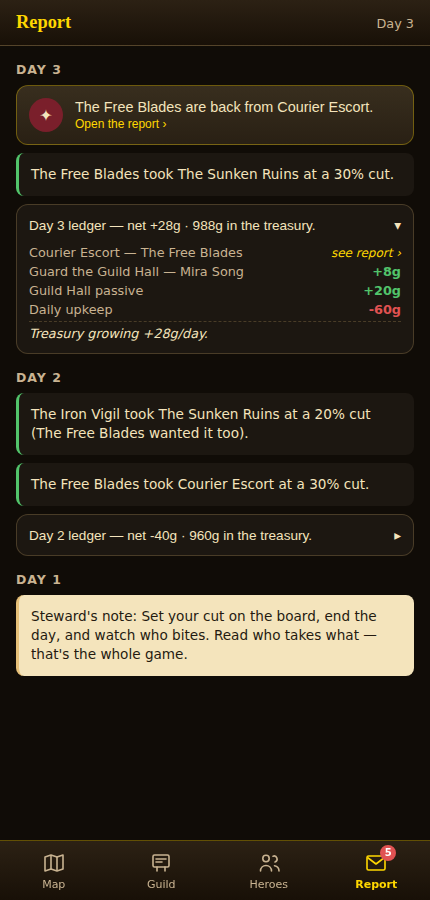
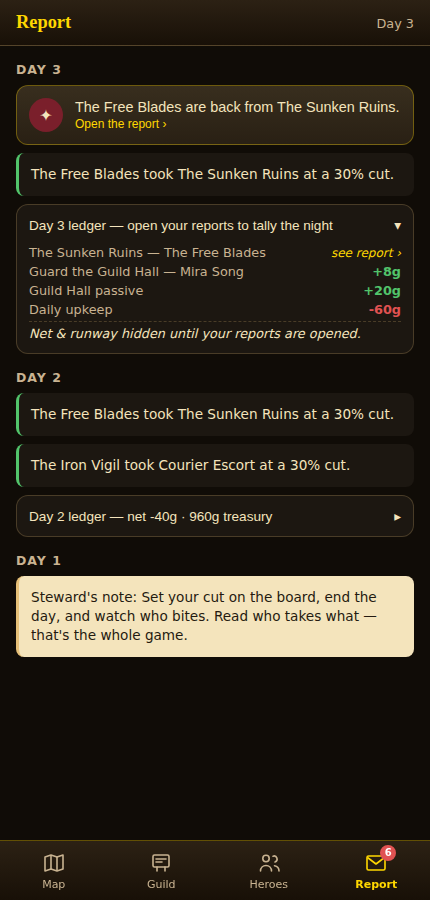
fix(guild): Codex P2s — reject appetite pad + sealed ledger tally
- board.ts appetiteFor: the reject side now needs the same 2*NOISE pad as
  'eager' — an observed reject at C only proves K < C + NOISE, so a future
  +NOISE day can still accept inside the band; 'won't bite' now fires only at
  cutPct >= minRejectedCut + 2*NOISE (else 'might pass'). The chip can't lie
  either direction now.
- Ledger no longer leaks a sealed payout via its totals: the net/treasury and
  the runway line are withheld on a sealed-return night until that night's
  outcome envelopes are opened (Report ledger head + body, and the Board
  treasury runway note). The raw gold balance stays visible per DESIGN §12.
  net/endGold carried as data on the ledger mail so the reveal is dynamic.

Verified headless @430px: pre-open the Day-3 ledger reads 'open your reports to
tally the night' with runway masked; after opening the story it reveals
'net +72g · 1032g treasury'. tsc + 68 vitest green; combat core untouched.

Claude-Session: https://claude.ai/code/session_01PRanA6Y1rRcgyVXVicoFHt

diff --git a/web/src/ui/report/ReportScreen.tsx b/web/src/ui/report/ReportScreen.tsx
@@ -87,10 +87,18 @@ function MailRow({ mail, readIds, onOpen, onRead }: { mail: Mail; readIds: Set<s
   }
 
   if (mail.kind === "ledger") {
+    // While any of this night's returning-quest cuts are still sealed, withhold the
+    // net/treasury/runway tally too — otherwise it can be back-solved to reveal the
+    // hidden payout before its story is opened (Codex R#34).
+    const pending = (mail.ledger ?? []).some((e) => e.sealedMailId !== undefined && !readIds.has(e.sealedMailId));
+    const net = mail.net ?? 0;
+    const head = pending
+      ? `${mail.teaser} — open your reports to tally the night`
+      : `${mail.teaser} — net ${net >= 0 ? "+" : ""}${net}g · ${mail.endGold ?? 0}g treasury`;
     return (
       <div className={styles.ledger}>
         <button type="button" className={styles.ledgerHead} onClick={() => { setOpen((v) => !v); if (!mail.read) onRead(); }} aria-expanded={open}>
-          <span>{mail.teaser}</span>
+          <span>{head}</span>
           <span aria-hidden>{open ? "▾" : "▸"}</span>
         </button>
         {open && mail.ledger && (
@@ -110,7 +118,9 @@ function MailRow({ mail, readIds, onOpen, onRead }: { mail: Mail; readIds: Set<s
                 </li>
               );
             })}
-            {mail.runwayNote && <li className={styles.runwayLine}><span>{mail.runwayNote}</span></li>}
+            <li className={styles.runwayLine}>
+              <span>{pending ? "Net & runway hidden until your reports are opened." : mail.runwayNote}</span>
+            </li>
           </ul>
         )}
       </div>

diff --git a/web/src/ui/board/BoardScreen.tsx b/web/src/ui/board/BoardScreen.tsx
@@ -110,12 +110,18 @@ export function BoardScreen() {
 }
 
 function Treasury({ state }: { state: GuildState }) {
-  // Runway mirrors the last ledger's note when present; otherwise a neutral read.
+  // The gold balance is always shown (§12). The runway note is derived from the
+  // night's net, which includes any still-sealed payout — so hold it neutral until
+  // the outcome reports are opened, else it leaks the hidden result (Codex R#34).
   const lastLedger = state.mail.find((m) => m.kind === "ledger");
+  const pendingReports = state.mail.some((m) => m.kind === "outcome" && !m.read);
+  const runway = pendingReports
+    ? "Open your reports for the day's tally."
+    : (lastLedger?.runwayNote ?? "A fresh ledger opens.");
   return (
     <div className={styles.treasury} aria-label={`Treasury ${state.gold} gold`}>
       <span className={styles.gold}>{state.gold}g</span>
-      <span className={styles.runway}>{lastLedger?.runwayNote ?? "A fresh ledger opens."}</span>
+      <span className={styles.runway}>{runway}</span>
     </div>
   );
 }

diff --git a/web/src/game/guild/board.ts b/web/src/game/guild/board.ts
@@ -41,7 +41,11 @@ export function appetiteFor(knowledge: AskKnowledge | undefined, cutPct: number)
   if (!knowledge || (knowledge.maxAcceptedCut === null && knowledge.minRejectedCut === null)) {
     return "unknown";
   }
-  if (knowledge.minRejectedCut !== null && cutPct >= knowledge.minRejectedCut) return "won't bite";
+  // Symmetric to "eager": an observed reject at C only proves K < C + NOISE (it may
+  // have landed on a −NOISE day), so a future +NOISE day can still accept inside a
+  // 2·NOISE band above the reject. Only call "won't bite" beyond that band, else the
+  // chip would lie the other way (Codex R#34).
+  if (knowledge.minRejectedCut !== null && cutPct >= knowledge.minRejectedCut + 2 * NOISE) return "won't bite";
   if (knowledge.maxAcceptedCut !== null && cutPct <= knowledge.maxAcceptedCut - 2 * NOISE) return "eager";
   return "might pass";
 }

diff --git a/web/src/game/guild/guild.test.ts b/web/src/game/guild/guild.test.ts
@@ -152,9 +152,10 @@ describe("appetite projection (never lies past the noise band)", () => {
     expect(appetiteFor(k, 26)).toBe("eager"); // boundary: safe
     expect(appetiteFor(k, 27)).toBe("might pass"); // inside the band a future roll could still decline
     expect(appetiteFor(k, 30)).toBe("might pass");
-    k = learn(k, 38, false); // declined at 38
-    expect(appetiteFor(k, 38)).toBe("won't bite");
-    expect(appetiteFor(k, 40)).toBe("won't bite");
+    k = learn(k, 38, false); // declined at 38 → guaranteed-reject region is ≥ 38 + 2·NOISE = 42
+    expect(appetiteFor(k, 38)).toBe("might pass"); // inside the band a good-mood day could still accept
+    expect(appetiteFor(k, 41)).toBe("might pass");
+    expect(appetiteFor(k, 42)).toBe("won't bite"); // beyond the band: confidently no
   });
 });
 

diff --git a/web/src/game/guild/endDay.ts b/web/src/game/guild/endDay.ts
@@ -157,13 +157,17 @@ export function endDay(state: GuildState): GuildState {
       : next.gold <= 0
         ? `Treasury is in the red (${next.gold}g).`
         : `Gold lasts ~${Math.max(1, Math.floor(next.gold / -net))} days at this burn.`;
+  // The teaser stays neutral; net/treasury/runway are carried as data and revealed
+  // by the Report only once the night's sealed returns are opened (Codex R#34).
   nightMail.push({
     id: id("mail"),
     day: newDay,
     kind: "ledger",
-    teaser: `Day ${newDay} ledger — net ${net >= 0 ? "+" : ""}${net}g · ${next.gold}g in the treasury.`,
+    teaser: `Day ${newDay} ledger`,
     ledger,
     runwayNote,
+    net,
+    endGold: next.gold,
     read: false,
   });
 

diff --git a/web/src/game/guild/types.ts b/web/src/game/guild/types.ts
@@ -156,6 +156,11 @@ export interface Mail {
   /** Ledger body (kind==="ledger"): the itemized movements + runway line. */
   ledger?: LedgerEntry[];
   runwayNote?: string;
+  /** The night's net and end-of-day gold. Stored raw so the Report can WITHHOLD
+   * them while any sealed return is unopened (they include the sealed payout, which
+   * would otherwise let the player back out a hidden outcome — Codex R#34). */
+  net?: number;
+  endGold?: number;
   /** Outcome body (kind==="outcome"): the adventure to replay + who ran it. */
   log?: AdventureLog;
   partyName?: string;
